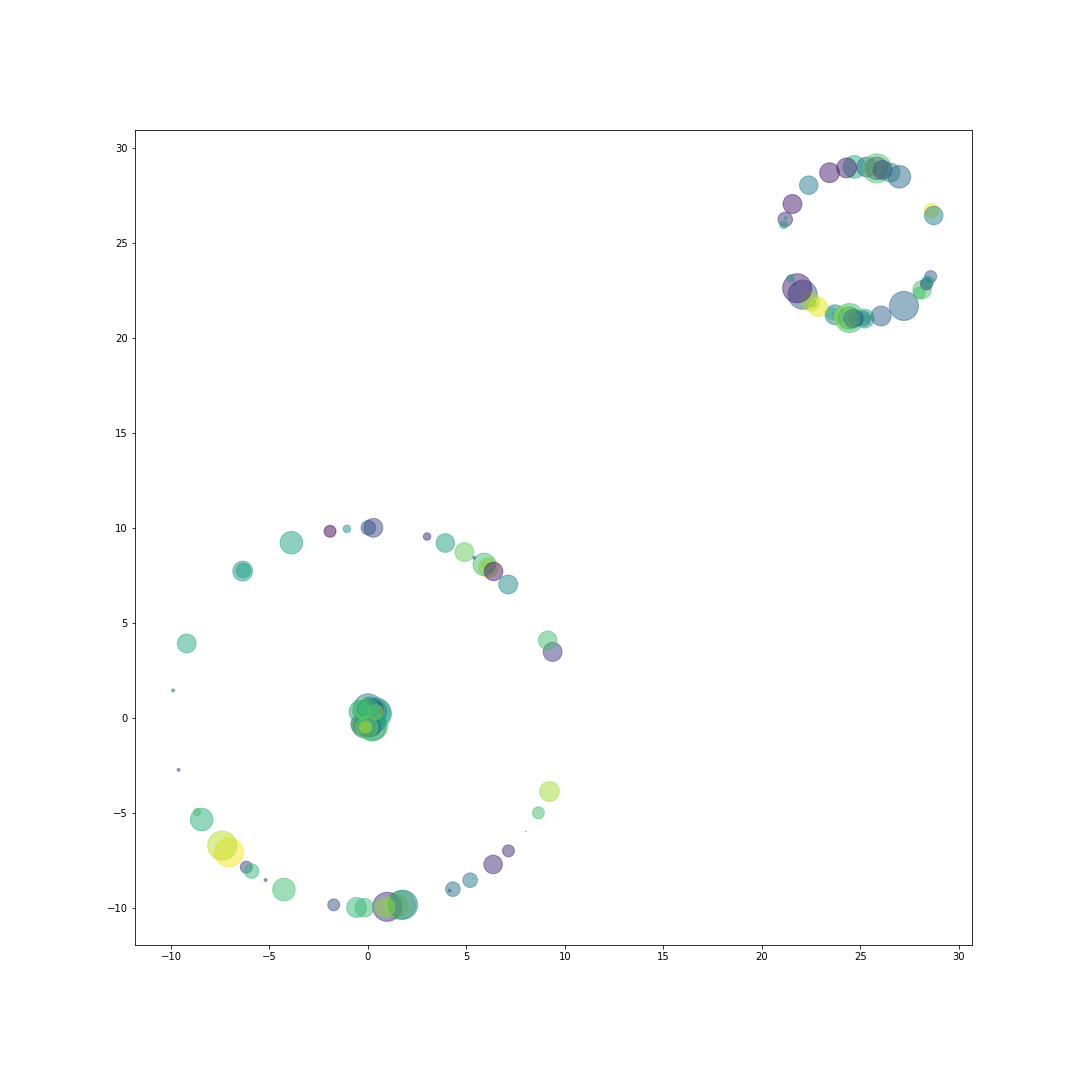
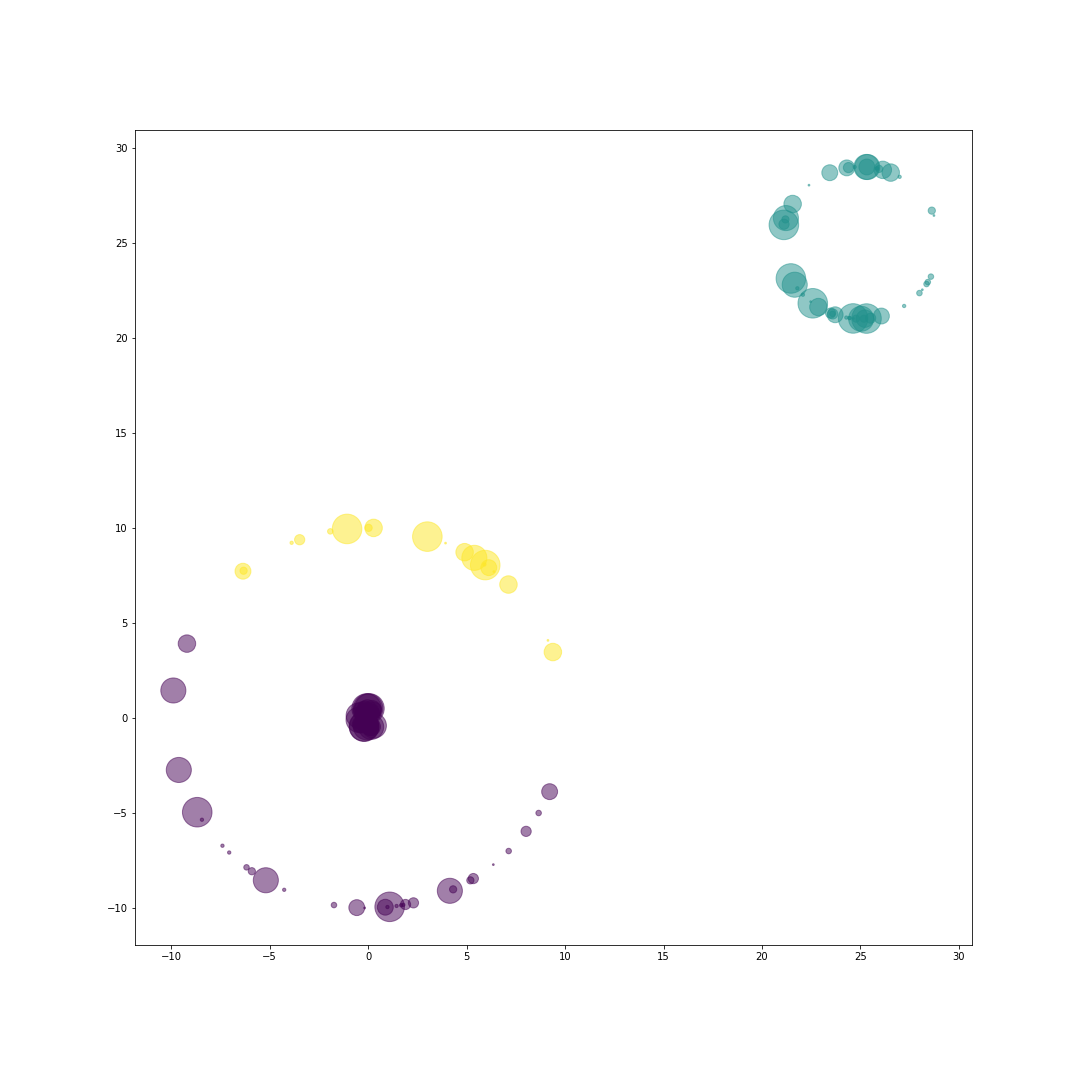
Успешно справляется с класстеризацией зведного неба

diff --git a/main.cpp b/main.cpp
@@ -10,7 +10,7 @@ using namespace std;
 using namespace dlib;
 
 using sample_type = matrix<double, 2, 1>;
-using kernel_type =  radial_basis_kernel<sample_type>;
+using kernel_type = radial_basis_kernel<sample_type>;
 
 int main(int argc, char const *argv[])
 {
@@ -20,7 +20,7 @@ int main(int argc, char const *argv[])
     } else {
         nCenters = 3;
     }
-    kcentroid<kernel_type> kc(kernel_type(0.1),0.01, 12);
+    kcentroid<kernel_type> kc(kernel_type(0.0001), 0.000001, 30);
     kkmeans<kernel_type> test(kc);
 
     std::vector<sample_type> samples;
@@ -43,15 +43,14 @@ int main(int argc, char const *argv[])
 
     test.set_number_of_centers(nCenters);
     pick_initial_centers(nCenters, initial_centers, samples, test.get_kernel());
-    test.train(samples,initial_centers);
+    //for(auto i : initial_centers)
+    //    cout<<i(0)<<" "<<i(1)<<endl;
+    test.train(samples, initial_centers);
+
 
     for(auto i : samples){
         oFile<<i(0)<<";"<<i(1)<<";"<<test(i)<<endl;
     }
-
-    //std::vector<unsigned long> assignments = spectral_cluster(kernel_type(0.1), samples, 4);
-    //cout << mat(assignments) << endl;
-
 
     return 0;
 }

diff --git a/datagenerator.cpp b/datagenerator.cpp
@@ -47,9 +47,9 @@ int main(int argc, char const *argv[]) {
     }
 
     std::ofstream oFileTwo("sky_data.txt");
-    for(auto i = 0; i < 200; i++){
-        auto x = rnd.get_integer_in_range(-100,100);
-        auto y = rnd.get_integer_in_range(-100,100);
+    for(auto i = 0; i < 300; i++){
+        auto x = rnd.get_double_in_range(-100,100);
+        auto y = rnd.get_double_in_range(-100,100);
         oFileTwo<<x<<";"<<y<<'\n';
     }
 
